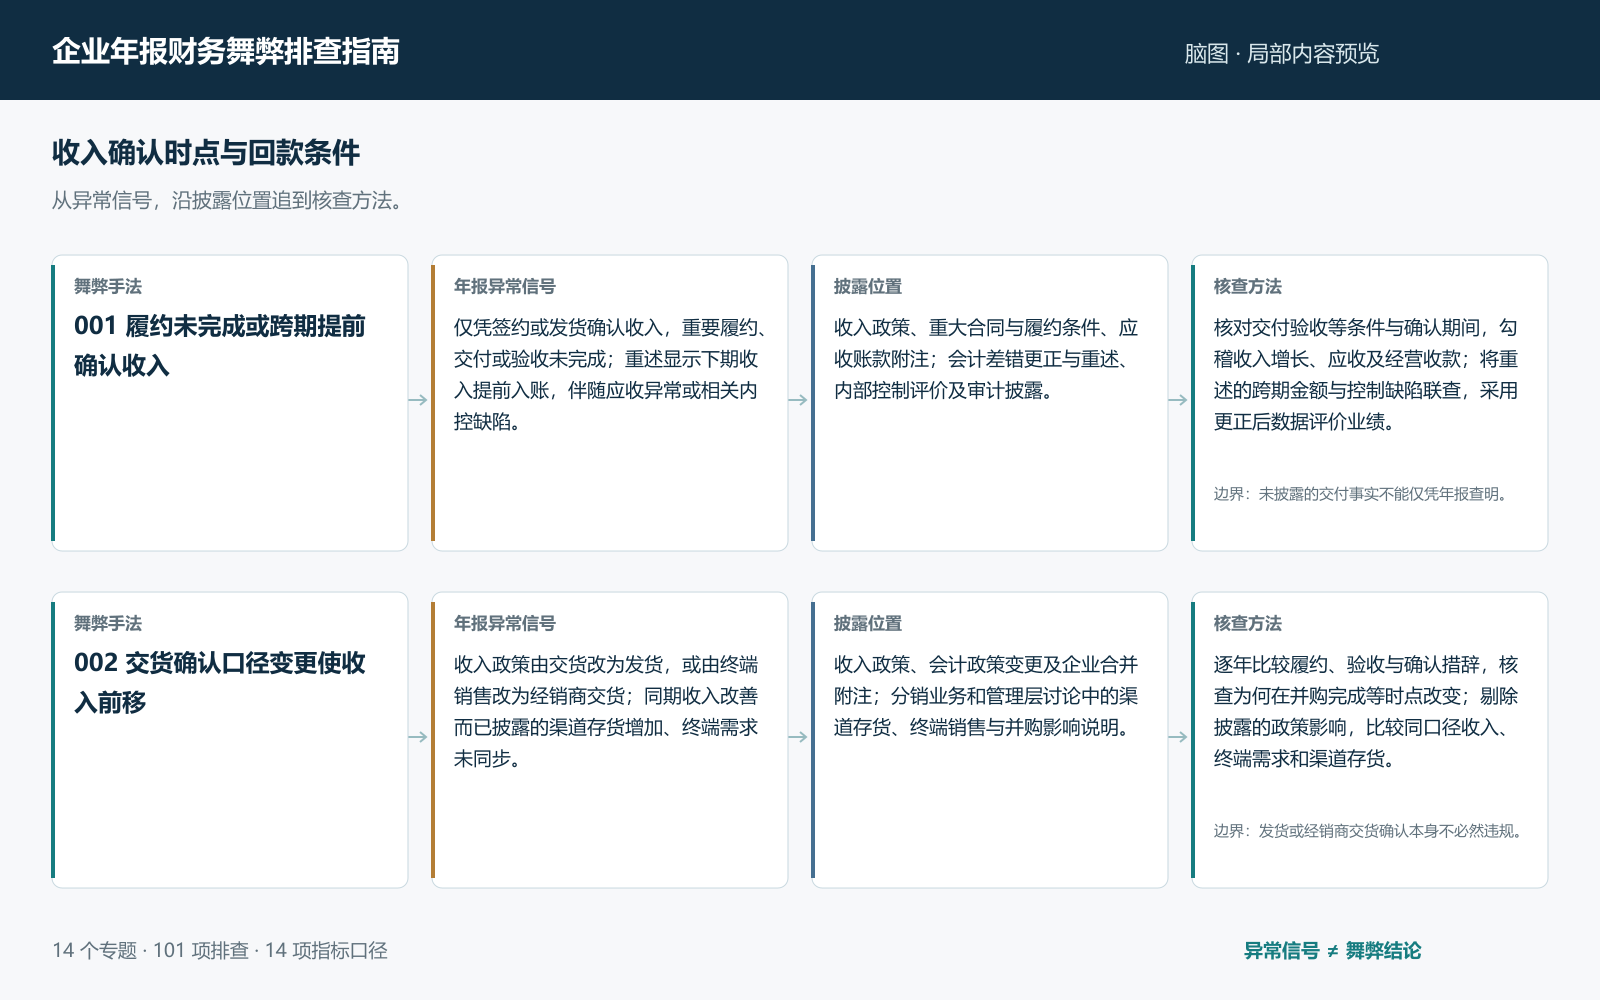
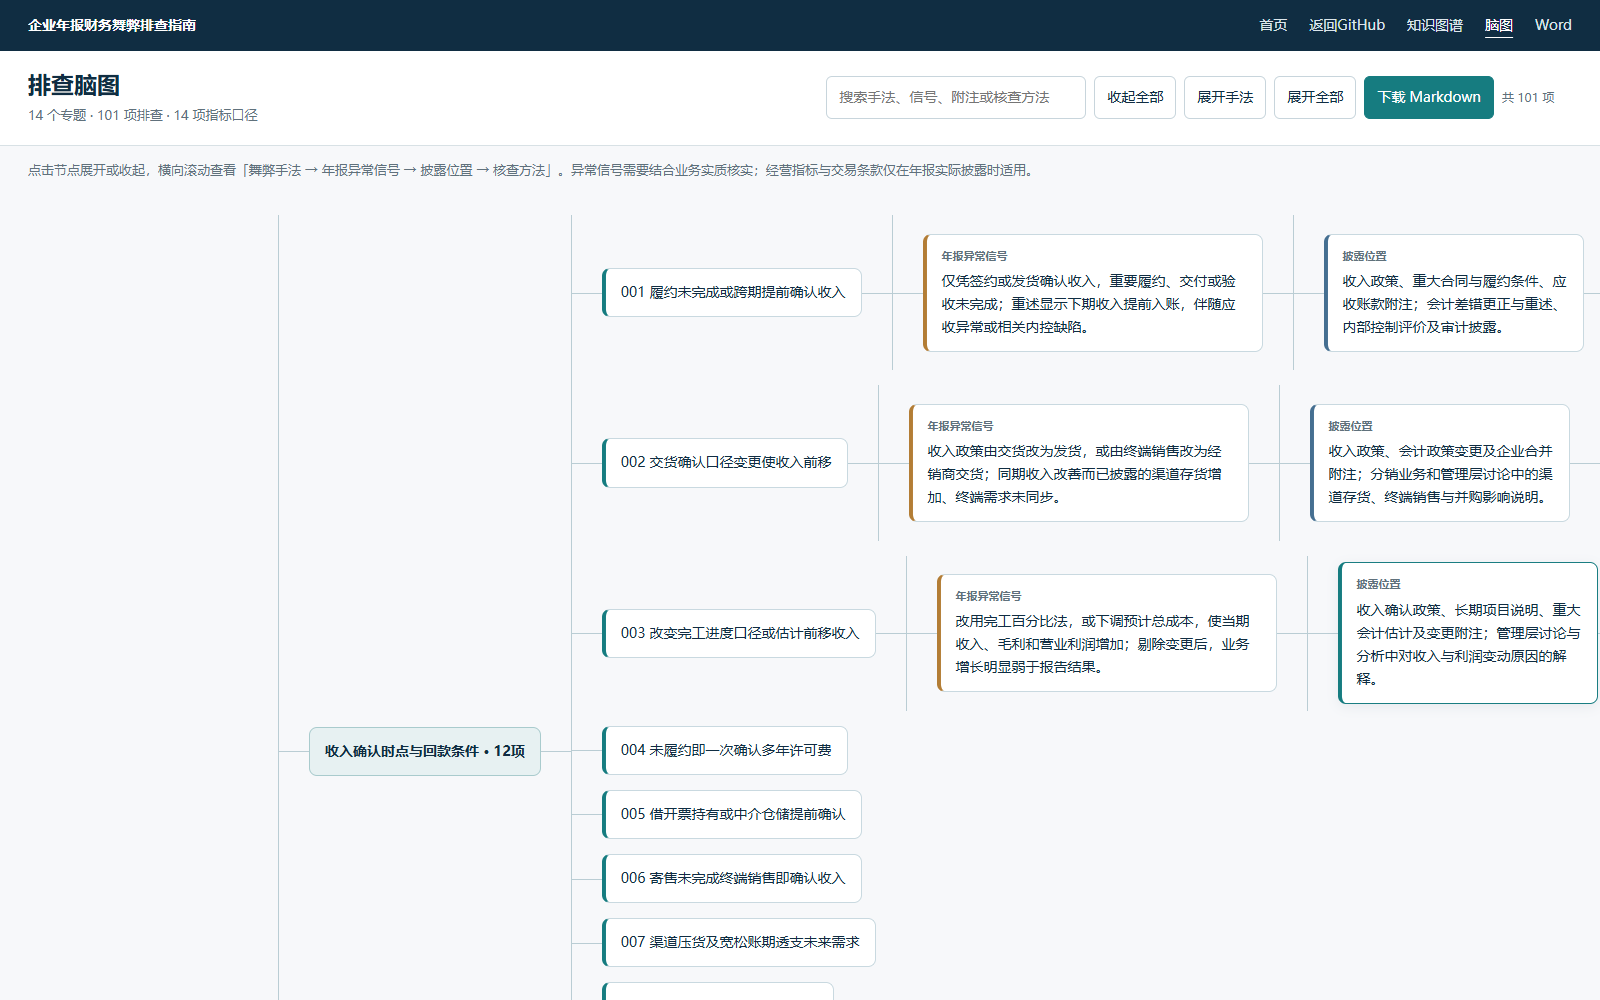
Place repository return links before knowledge graph navigation

diff --git a/docs/graph.html b/docs/graph.html
@@ -10,10 +10,10 @@
 :root[data-theme=light]{color-scheme:light;--bg:#f7f8fa;--panel:#fff;--panel-soft:#edf3f5;--text:#102d42;--muted:#526b79;--line:#d5e1e7;--accent:#167c80;--header:#102d42;--field:#f7f8fa;--edge:#8aa0ad;--shadow:#102d4220}
 *{box-sizing:border-box}html,body{height:100%;margin:0;overflow:hidden}body{background:var(--bg);color:var(--text);font:14px/1.6 system-ui,-apple-system,"Segoe UI","Microsoft YaHei","PingFang SC",sans-serif}button,input,select{font:inherit}button,input,select{color:inherit}button{cursor:pointer}button:focus-visible,a:focus-visible,input:focus-visible,select:focus-visible,canvas:focus-visible{outline:2px solid var(--accent);outline-offset:3px}button{border:1px solid var(--line);background:var(--panel);border-radius:4px}button:hover{background:var(--panel-soft)}a{color:var(--accent);text-underline-offset:3px}.topbar{height:58px;padding:0 22px;background:var(--header);border-bottom:1px solid #ffffff10;display:flex;align-items:center;gap:18px;color:#f3f7fa}.brand{color:inherit;text-decoration:none;font-weight:650;font-size:15px;letter-spacing:.025em;margin-right:auto}.topbar nav{display:flex;gap:26px}.topbar nav a{color:#c7dce7;text-decoration:none;font-size:13px}.topbar nav a[aria-current]{color:#fff;border-bottom:2px solid #69c7c3;padding-bottom:4px}.toggle{display:none;color:#fff;border-color:#ffffff40;background:transparent;padding:5px 10px}.layout{height:calc(100% - 58px);display:flex;position:relative}.sidebar{width:290px;order:2;flex:none;background:var(--panel);border-left:1px solid var(--line);overflow:auto;overscroll-behavior:contain;z-index:4;scrollbar-width:thin}.side-block{padding:12px 16px;border-bottom:1px solid var(--line)}h1{font-size:19px;line-height:1.4;margin:0 0 6px;letter-spacing:-.025em}.subtitle{font-size:11px;color:var(--muted);margin:0}.field-label{display:block;font-size:12px;font-weight:600;margin-bottom:6px}.search-row{margin-top:16px}input[type=search],select{width:100%;min-width:0;padding:8px 10px;height:38px;border:1px solid var(--line);background:var(--field);border-radius:4px}input::placeholder{color:var(--muted)}input[type=checkbox]{accent-color:var(--accent);width:15px;height:15px;flex:none;margin:0;cursor:pointer}.type-row{margin-top:12px}.search-list{margin:10px 0 0;padding:0;list-style:none;max-height:220px;overflow:auto}.search-list button{width:100%;border:0;border-bottom:1px solid var(--line);border-radius:0;text-align:left;padding:8px 4px;font-size:12px;line-height:1.6}.search-list small{display:block;color:var(--muted);font-size:10px}.search-count{font-size:11px;color:var(--muted);margin:8px 0 0}.block-heading{font-size:12px;letter-spacing:.04em;font-weight:650;margin:0 0 8px;display:flex;align-items:center;justify-content:space-between;gap:8px}.text-button{background:none;border:0;color:var(--accent);font-size:11px;padding:0}.detail-kind{font-size:10px;color:var(--accent);background:var(--panel-soft);padding:2px 6px;border-radius:3px;display:inline-block}.detail-title{font-size:15px;line-height:1.65;margin:8px 0}.detail-description{font-size:12px;line-height:1.85;white-space:pre-line;margin:0}.detail-meta{font-size:10px;color:var(--muted);margin-top:10px}.detail-meta span{display:block}.empty-note{font-size:12px;line-height:1.8;color:var(--muted);margin:0}.neighbor-title{font-size:11px;margin:14px 0 7px;color:var(--muted);font-weight:500}.neighbors{max-height:230px;overflow:auto}.neighbor{border-top:1px solid var(--line);padding:8px 0}.neighbor small{display:block;color:var(--muted);font-size:10px}.neighbor button{text-align:left;padding:2px 0;border:0;background:none;color:var(--accent);font-size:12px;line-height:1.65}.neighbor p{font-size:10px;color:var(--muted);margin:4px 0 0}.all-row{display:flex;gap:9px;align-items:center;padding-bottom:11px;margin-bottom:4px;border-bottom:1px solid var(--line);font-size:12px;cursor:pointer}.all-row span:last-child{margin-left:auto;color:var(--muted);font-size:10px}.theme-list{display:flex;flex-direction:column}.theme-option{display:flex;gap:9px;align-items:center;cursor:pointer;padding:2px 0;min-height:25px;font-size:11px}.theme-option:hover{background:var(--panel-soft)}.swatch{width:8px;height:8px;flex:none;border-radius:50%;box-shadow:0 0 0 1px #ffffff10}.theme-name{flex:1}.theme-count{color:var(--muted);font-size:10px;font-variant-numeric:tabular-nums}.theme-picker{display:flex;align-items:center;justify-content:space-between;gap:10px;font-size:11px}.theme-picker select{width:132px;font-size:11px;height:32px;padding:4px 8px}.license{font-size:10px;color:var(--muted);line-height:1.8;margin:14px 0 0}.license a{color:inherit}.stage{position:relative;order:1;min-width:0;flex:1;overflow:hidden}#network{display:block;width:100%;height:100%;touch-action:none;outline-offset:-3px}.canvas-toolbar{position:absolute;top:16px;left:18px;right:18px;display:flex;justify-content:space-between;align-items:flex-start;gap:12px;pointer-events:none}.network-status{padding:7px 11px;background:var(--panel);border:1px solid var(--line);border-radius:4px;box-shadow:0 2px 8px var(--shadow);font-size:12px;pointer-events:auto}.network-status small{display:block;font-size:10px;color:var(--muted)}.canvas-controls{display:flex;gap:5px;pointer-events:auto}.canvas-controls button{width:34px;height:34px;padding:6px;box-shadow:0 2px 8px var(--shadow)}.canvas-controls .fit{width:auto;padding:5px 11px;font-size:11px}.canvas-controls svg{width:20px;height:20px;display:block}.canvas-caption{position:absolute;left:18px;right:18px;bottom:12px;display:flex;justify-content:space-between;gap:15px;color:var(--muted);font-size:10px;pointer-events:none}.canvas-caption span{background:var(--bg);padding:2px 4px}.tooltip{position:absolute;z-index:6;max-width:340px;padding:10px 12px;background:var(--panel);border:1px solid var(--line);box-shadow:0 3px 18px var(--shadow);border-radius:5px;pointer-events:none;font-size:12px;line-height:1.7;white-space:pre-line}.tooltip small{display:block;font-size:10px;color:var(--muted)}.veil{display:none}.sr-only{position:absolute;width:1px;height:1px;padding:0;margin:-1px;overflow:hidden;clip:rect(0,0,0,0);white-space:nowrap;border:0}[hidden]{display:none!important}
 @media(max-width:760px){.topbar{height:54px;padding:0 12px;gap:10px}.brand{font-size:12px}.topbar nav{gap:14px}.topbar nav a{font-size:11px}.toggle{display:block;font-size:11px;padding:4px 7px}.layout{height:calc(100% - 54px)}.sidebar{position:absolute;right:0;top:0;bottom:0;width:min(310px,88vw);transform:translateX(100%);box-shadow:-5px 0 20px var(--shadow)}body.sidebar-open .sidebar{transform:translateX(0)}body.sidebar-open .veil{display:block;position:absolute;inset:0;background:#0005;border:0;border-radius:0;z-index:3}.canvas-toolbar{top:12px;left:12px;right:12px;gap:8px}.network-status{font-size:11px;padding:6px 8px}.canvas-controls .fit{padding:4px 8px}.canvas-caption{left:10px;right:10px;bottom:10px;font-size:9px}.canvas-caption span:last-child{display:none}.tooltip{max-width:270px}.canvas-controls button{height:32px;width:32px}.brand .long-title{display:none}}
-</style>
+@media(max-width:380px){.topbar{gap:4px}.topbar nav{gap:6px}}</style>
 </head>
 <body>
-<header class="topbar"><button id="sidebar-toggle" class="toggle" aria-controls="sidebar" aria-expanded="false">侧栏</button><a class="brand" href="index.html" aria-label="返回项目首页">年报风险<span class="long-title">知识图谱</span></a><nav aria-label="主导航"><a href="index.html">首页</a><a href="graph.html" aria-current="page">知识图谱</a><a href="mindmap.html">脑图</a><a href="guide.html">Word</a></nav></header>
+<header class="topbar"><button id="sidebar-toggle" class="toggle" aria-controls="sidebar" aria-expanded="false">侧栏</button><a class="brand" href="index.html" aria-label="返回项目首页">年报风险<span class="long-title">知识图谱</span></a><nav aria-label="主导航"><a href="index.html">首页</a><a href="https://github.com/qingkongwanli0l/annual-report-fraud-guide">返回GitHub</a><a href="graph.html" aria-current="page">知识图谱</a><a href="mindmap.html">脑图</a><a href="guide.html">Word</a></nav></header>
 <main class="layout">
 <aside class="sidebar" id="sidebar" aria-label="图谱筛选与节点详情">
 <section class="side-block"><h1 class="sr-only">年报风险知识图谱</h1><p class="sr-only">386 个节点 · 728 条关系 · 18 个主题</p><div><label class="theme-picker" for="appearance">显示模式<select id="appearance"><option value="dark">深色</option><option value="light">浅色</option><option value="system">跟随系统</option></select></label></div><div class="search-row"><label class="field-label" for="search">搜索节点</label><input id="search" type="search" placeholder="输入名称，如应收账款、现金流" autocomplete="off"><p class="search-count" id="search-count" hidden></p><ul class="search-list" id="search-results" hidden></ul></div><div class="type-row"><label class="field-label" for="type-filter">节点类型</label><select id="type-filter"><option value="">全部类型</option></select></div></section>

diff --git a/docs/guide.html b/docs/guide.html
@@ -3,8 +3,8 @@
 <meta name="author" content="qingkongwanli0l"><meta name="description" content="在线阅读完整年报财务舞弊排查指南：14个专题、101项排查、14项指标口径，另可下载Word文档。">
 <title>Word 指南 · 企业年报财务舞弊排查指南</title><style>
 :root{color-scheme:light;--ink:#102d42;--accent:#167c80;--muted:#526674;--line:#dce4e9;--paper:#f7f8fa}*{box-sizing:border-box}html{scroll-behavior:smooth}body{margin:0;background:#fff;color:var(--ink);font:16px/1.8 system-ui,-apple-system,"Segoe UI","Microsoft YaHei","PingFang SC",sans-serif}a{color:var(--accent);text-underline-offset:4px}a:focus-visible{outline:3px solid var(--accent);outline-offset:4px}header{position:sticky;top:0;z-index:10;background:#fff;border-bottom:1px solid var(--line)}nav{max-width:1320px;margin:auto;display:flex;align-items:center;gap:26px;padding:18px 32px;font-size:14px}nav .brand{margin-right:auto;font-weight:700;color:var(--ink);text-decoration:none}.nav-links{display:flex;align-items:center;gap:26px}nav a{text-decoration:none}nav a[aria-current=page]{font-weight:700;text-decoration:underline;text-underline-offset:7px}main{max-width:1320px;margin:auto;padding:0 32px}.hero{padding:48px 0 30px;border-bottom:1px solid var(--line)}.hero-top{display:flex;align-items:flex-start;justify-content:space-between;gap:30px}.eyebrow{color:var(--accent);font-size:14px;margin:0 0 10px}.hero h1{font-size:clamp(27px,3.2vw,40px);line-height:1.45;letter-spacing:-.5px;margin:0 0 14px}.chain{color:var(--muted);font-size:16px;margin:0 0 24px}.download{display:inline-block;flex-shrink:0;margin-top:30px;padding:10px 20px;background:var(--accent);border:1px solid var(--accent);color:#fff;font-size:14px;font-weight:600;text-decoration:none;white-space:nowrap}.download:hover{background:var(--ink);border-color:var(--ink)}.intro p{margin:0 0 12px;max-width:1100px}.intro .license-note{margin:18px 0 0;font-size:13px;color:var(--muted)}.toc{scroll-margin-top:94px;padding:30px 0 38px;border-bottom:1px solid var(--line)}h2{font-size:24px;line-height:1.5;margin:0 0 22px}.toc ol{display:grid;grid-template-columns:repeat(3,minmax(0,1fr));gap:4px 24px;list-style:none;padding:0;margin:0}.toc a{display:flex;align-items:baseline;gap:12px;padding:9px 0;text-decoration:none;line-height:1.6;font-size:14px}.toc a:hover .toc-title{text-decoration:underline}.toc-number{color:var(--accent);font-variant-numeric:tabular-nums;flex-shrink:0}.toc-count{font-size:12px;color:var(--muted);white-space:nowrap;margin-left:auto}.topic,.metrics{padding:40px 0 0;scroll-margin-top:94px}.section-head{display:flex;align-items:baseline;justify-content:space-between;gap:24px;margin-bottom:18px}.section-head h2{margin:0}.section-number{color:var(--accent);margin-right:13px;font-variant-numeric:tabular-nums}.back{font-size:13px;text-decoration:none;white-space:nowrap}table{width:100%;border-collapse:collapse;table-layout:fixed;font-size:14px;line-height:1.85}col.method-col{width:19%}col.signal-col{width:25%}col.location-col{width:23%}col.check-col{width:33%}thead th{padding:13px 16px;background:var(--ink);color:#fff;text-align:left;font-weight:600;border-right:1px solid #ffffff33}tbody th,tbody td{vertical-align:top;padding:18px 16px;border:1px solid var(--line);overflow-wrap:anywhere}tbody th{text-align:left;font-weight:600}tbody tr:nth-child(even){background:var(--paper)}.item-number{display:block;font-size:12px;line-height:1.4;color:var(--accent);font-variant-numeric:tabular-nums;margin-bottom:8px}.field-label{display:none}.field-text{margin:0}.caveat{margin:12px 0 0;padding-top:10px;border-top:1px solid var(--line);font-size:12px;line-height:1.8;color:var(--muted)}.caveat strong{font-weight:600;color:var(--ink)}.metrics{padding-bottom:36px}.metrics-intro{margin:0 0 20px;color:var(--muted)}.metric-list{margin:0;border-top:1px solid var(--line)}.metric{display:grid;grid-template-columns:240px 1fr;gap:24px;padding:18px 0;border-bottom:1px solid var(--line)}dt{font-weight:600;font-size:15px}dd{margin:0;font-size:14px}footer{max-width:1320px;margin:auto;padding:24px 32px 32px;display:flex;flex-wrap:wrap;justify-content:space-between;gap:12px;font-size:12px;color:var(--muted);border-top:1px solid var(--line)}@media(max-width:1000px){.toc ol{grid-template-columns:repeat(2,minmax(0,1fr))}.hero-top{display:block}.download{margin:0 0 24px}.hero{padding-top:32px}}@media(max-width:760px){nav{padding:14px 20px;gap:10px;flex-wrap:wrap}nav .brand{width:100%;margin:0}.nav-links{gap:26px}main{padding:0 20px}.hero{padding-top:28px}.hero h1{font-size:28px}.chain{font-size:14px}.intro p{font-size:15px}.toc{scroll-margin-top:120px}.toc ol{grid-template-columns:1fr}.toc a{font-size:15px;padding:8px 0}.topic,.metrics{padding-top:30px;scroll-margin-top:120px}.section-head{align-items:flex-start;gap:12px}.section-head h2{font-size:22px}.section-number{display:block;font-size:14px;margin:0 0 5px}.back{padding-top:3px}table,tbody,tr,tbody th,tbody td{display:block;width:100%}colgroup,thead{display:none}tbody tr{margin-bottom:20px;border:1px solid var(--line);background:#fff;border-radius:8px;overflow:hidden}tbody tr:nth-child(even){background:#fff}tbody th,tbody td{border:0;padding:14px 16px}tbody th{background:var(--paper);font-size:17px;border-left:3px solid var(--accent)}tbody td{border-top:1px solid var(--line);font-size:15px}.field-label{display:block;font-size:12px;line-height:1.4;color:var(--muted);font-weight:600;margin-bottom:9px}.item-number{display:inline-block;margin:0 8px 0 0;font-size:13px}.caveat{font-size:13px}.metric{grid-template-columns:1fr;gap:6px;padding:17px 0}dt{font-size:16px}dd{font-size:15px}footer{padding:22px 20px}}@media(prefers-reduced-motion:reduce){html{scroll-behavior:auto}}@media print{header,.download,.back{display:none}main{max-width:none;padding:0}body{font-size:11pt}.hero{padding-top:0}.topic,.metrics{break-before:auto}tbody tr,.metric{break-inside:avoid}h2{break-after:avoid}table{font-size:9pt}footer{padding:16px 0}.toc{break-after:page}}
-</style></head><body>
-<header><nav aria-label="主导航"><a class="brand" href="index.html">企业年报财务舞弊排查指南</a><div class="nav-links"><a href="index.html">首页</a><a href="graph.html">知识图谱</a><a href="mindmap.html">脑图</a><a href="guide.html" aria-current="page">Word</a></div></nav></header>
+@media(max-width:380px){.nav-links{gap:12px}}</style></head><body>
+<header><nav aria-label="主导航"><a class="brand" href="index.html">企业年报财务舞弊排查指南</a><div class="nav-links"><a href="index.html">首页</a><a href="https://github.com/qingkongwanli0l/annual-report-fraud-guide">返回GitHub</a><a href="graph.html">知识图谱</a><a href="mindmap.html">脑图</a><a href="guide.html" aria-current="page">Word</a></div></nav></header>
 <main><section class="hero" aria-labelledby="guide-title"><div class="hero-top"><div><p class="eyebrow">Word 指南 · 在线阅读</p><h1 id="guide-title">企业年报财务舞弊排查指南</h1><p class="chain">舞弊手法 → 年报异常信号 → 披露位置 → 核查方法</p></div><a class="download" href="downloads/guide.docx" download="企业年报财务舞弊排查指南.docx">下载 Word</a></div><div class="intro">
 <p>围绕企业年报中的确认、计量、分类与披露，提供14个专题、101项排查条目和14项指标口径。保留适用条件及正常商业解释。</p>
 <p>使用方法：连续多期比较同口径年报，先看审计意见和三张报表，再沿异常信号核对附注、业务实质与现金流。披露不足的事项标为待核查；异常或会计政策变化本身不能直接证明舞弊。</p>

diff --git a/docs/mindmap.html b/docs/mindmap.html
@@ -2,8 +2,8 @@
 <html lang="zh-CN"><head><meta charset="UTF-8"><meta name="viewport" content="width=device-width,initial-scale=1"><meta name="author" content="qingkongwanli0l"><meta name="description" content="14个专题、101项企业年报排查条目，沿手法、异常信号、披露位置和核查方法展开。"><title>排查脑图 · 企业年报财务舞弊排查指南</title>
 <style>
 *{box-sizing:border-box}body{margin:0;color:#102d42;background:#f7f8fa;font:14px/1.65 system-ui,-apple-system,"Segoe UI","Microsoft YaHei",sans-serif}a{color:inherit}header{position:sticky;top:0;z-index:10;background:#fff;border-bottom:1px solid #d8e1e5}.site-nav{display:flex;align-items:center;gap:28px;background:#102d42;color:#fff;padding:14px 28px}.brand{font-weight:700;text-decoration:none;margin-right:auto}.nav-links{display:flex;gap:22px;align-items:center}.nav-links a{font-size:14px;text-decoration:none;color:#dce6eb}.nav-links a[aria-current=page]{color:#fff;text-decoration:underline;text-underline-offset:7px}.toolbar{padding:18px 28px;display:flex;gap:16px;align-items:center;flex-wrap:wrap}h1{font-size:23px;line-height:1.4;margin:0}.subtitle{color:#60717c;font-size:13px;margin:4px 0 0}.tools{display:flex;gap:8px;align-items:center;flex-wrap:wrap;margin-left:auto}input{width:260px;border:1px solid #c8d5dc;border-radius:6px;padding:9px 12px;font:inherit;background:#fff}.tools button{border:1px solid #c8d5dc;background:white;color:#102d42;border-radius:6px;padding:9px 12px;font:inherit;cursor:pointer}.tools button:hover{background:#edf5f5;border-color:#167c80}#download{background:#167c80;color:#fff;border-color:#167c80}#status{font-size:12px;color:#60717c;min-width:70px}.hint{padding:14px 28px;color:#60717c;font-size:13px}#viewport{overflow:auto;min-height:68vh;padding:20px 36px 64px}#map{width:max-content;min-width:900px}.branch{display:flex;align-items:center;position:relative}.children{display:flex;flex-direction:column;gap:15px;margin-left:30px;padding-left:30px;border-left:1px solid #bacdd4}.children>.branch:before{content:'';position:absolute;left:-30px;top:50%;width:30px;border-top:1px solid #bacdd4}.node{border:1px solid #c8d8df;background:#fff;border-radius:8px;padding:12px 15px;min-width:170px;max-width:250px;color:inherit;text-align:left;font:inherit;line-height:1.65;position:relative;white-space:normal;word-break:break-word;flex-shrink:0}.node.has-children:after{content:'';position:absolute;right:-31px;top:50%;width:30px;border-top:1px solid #bacdd4}.node[aria-expanded=false]:after{display:none}.node.has-children{cursor:pointer}.node.has-children:hover{border-color:#167c80;box-shadow:0 3px 12px #102d4212}.root{background:#102d42;color:#fff;border-color:#102d42;font-size:18px;font-weight:700;max-width:230px}.category{background:#e7f1f2;border-color:#a9cbcd;font-weight:700}.method{max-width:280px;border-left:4px solid #167c80}.signals{max-width:340px;border-left:4px solid #b37d35}.location{max-width:260px;border-left:4px solid #456f91}.checks{max-width:380px;border-left:4px solid #167c80}.kind{font-size:11px;color:#60717c;margin-bottom:5px;font-weight:700;display:block}.note{font-size:12px;color:#60717c;border-top:1px solid #e1e8eb;margin-top:9px;padding-top:7px;display:block}[hidden]{display:none!important}:focus-visible{outline:3px solid #51a9ad;outline-offset:3px}footer{padding:18px 28px;color:#60717c;font-size:12px;border-top:1px solid #d8e1e5;background:#fff}#empty{padding:30px;color:#60717c}@media(max-width:720px){.site-nav{padding:12px 16px;gap:12px;flex-wrap:wrap}.brand{width:100%}.nav-links{gap:20px}.toolbar{padding:16px;align-items:flex-start}.tools{margin-left:0;width:100%}.tools input{width:100%}.hint{padding:12px 16px}#viewport{padding:16px 20px 48px}#map{width:auto;min-width:0}.branch{display:block}.children{gap:12px;margin-left:12px;padding-left:12px;padding-top:12px}.children>.branch:before{left:-12px;top:24px;width:12px}.node{width:100%;max-width:none;min-width:0}.node.has-children:after{display:none}h1{font-size:21px}}
-</style></head><body>
-<header><nav class="site-nav" aria-label="主导航"><a class="brand" href="index.html">企业年报财务舞弊排查指南</a><div class="nav-links"><a href="index.html">首页</a><a href="graph.html">知识图谱</a><a href="mindmap.html" aria-current="page">脑图</a><a href="guide.html">Word</a></div></nav>
+@media(max-width:380px){.nav-links{gap:12px}}</style></head><body>
+<header><nav class="site-nav" aria-label="主导航"><a class="brand" href="index.html">企业年报财务舞弊排查指南</a><div class="nav-links"><a href="index.html">首页</a><a href="https://github.com/qingkongwanli0l/annual-report-fraud-guide">返回GitHub</a><a href="graph.html">知识图谱</a><a href="mindmap.html" aria-current="page">脑图</a><a href="guide.html">Word</a></div></nav>
 <div class="toolbar"><div><h1>排查脑图</h1><p class="subtitle">14 个专题 · 101 项排查 · 14 项指标口径</p></div><div class="tools"><input id="search" placeholder="搜索手法、信号、附注或核查方法" aria-label="搜索脑图"><button id="fold" type="button">收起全部</button><button id="methods" type="button">展开手法</button><button id="expand" type="button">展开全部</button><button id="download" type="button">下载 Markdown</button><span id="status" aria-live="polite"></span></div></div></header>
 <div class="hint">点击节点展开或收起，横向滚动查看「舞弊手法 → 年报异常信号 → 披露位置 → 核查方法」。异常信号需要结合业务实质核实；经营指标与交易条款仅在年报实际披露时适用。</div>
 <main id="viewport" aria-label="交互排查脑图"><div id="map"></div><div id="empty" hidden>未找到匹配条目，请更换关键词。</div></main>

diff --git a/docs/index.html b/docs/index.html
@@ -10,7 +10,7 @@
 </style>
 </head>
 <body>
-<header><nav aria-label="主导航"><a class="brand" href="./index.html">企业年报财务舞弊排查指南</a><a href="./graph.html">知识图谱</a><a href="./mindmap.html">排查脑图</a><a href="./guide.html">Word 指南</a><a href="https://github.com/qingkongwanli0l/annual-report-fraud-guide">GitHub</a></nav></header>
+<header><nav aria-label="主导航"><a class="brand" href="./index.html">企业年报财务舞弊排查指南</a><a href="https://github.com/qingkongwanli0l/annual-report-fraud-guide">返回GitHub</a><a href="./graph.html">知识图谱</a><a href="./mindmap.html">排查脑图</a><a href="./guide.html">Word 指南</a></nav></header>
 <main>
 <div class="hero"><div><h1>读懂异常信号，<br>建立清晰的排查路径。</h1><p>连接财务报表、附注与经营披露，从单个异常出发，交叉核对收入、利润、现金流和资产负债质量。</p></div><div class="path"><p>每条排查路径</p><strong>舞弊手法 → 年报异常信号<br>→ 披露位置 → 核查方法</strong></div></div>
 <div class="stats" aria-label="内容规模"><div class="stat"><strong>386</strong><span>知识节点</span></div><div class="stat"><strong>728</strong><span>关联关系</span></div><div class="stat"><strong>101</strong><span>排查条目</span></div><div class="stat"><strong>14</strong><span>指标速查</span></div></div>
